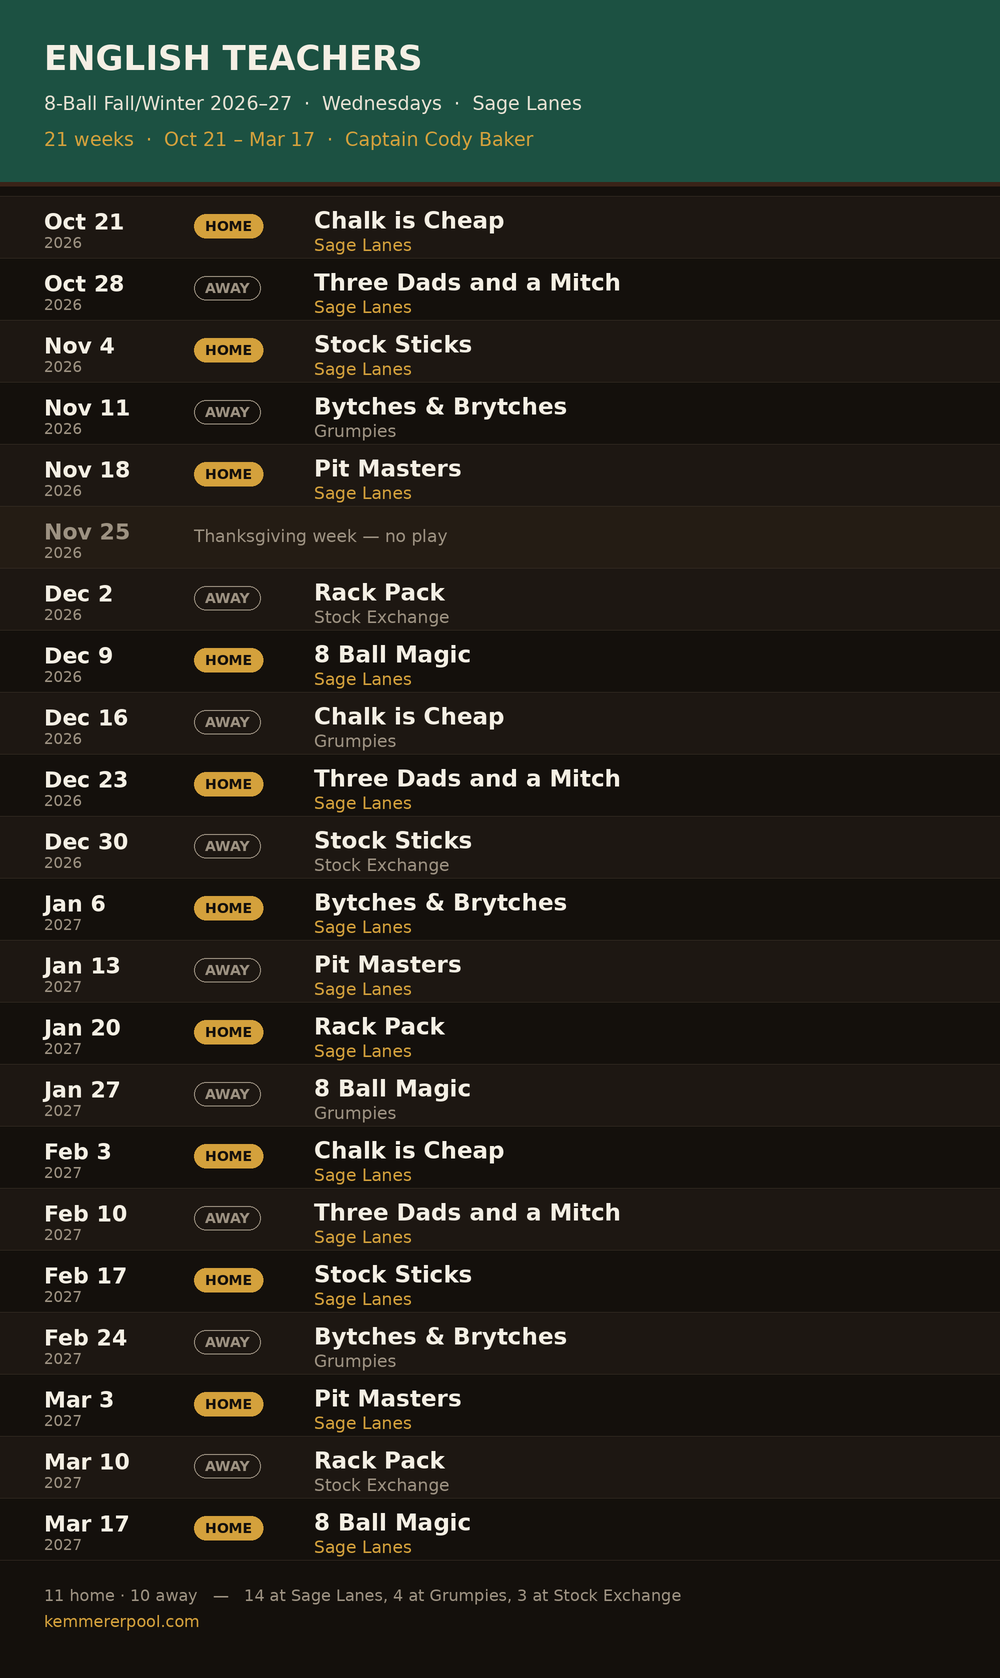
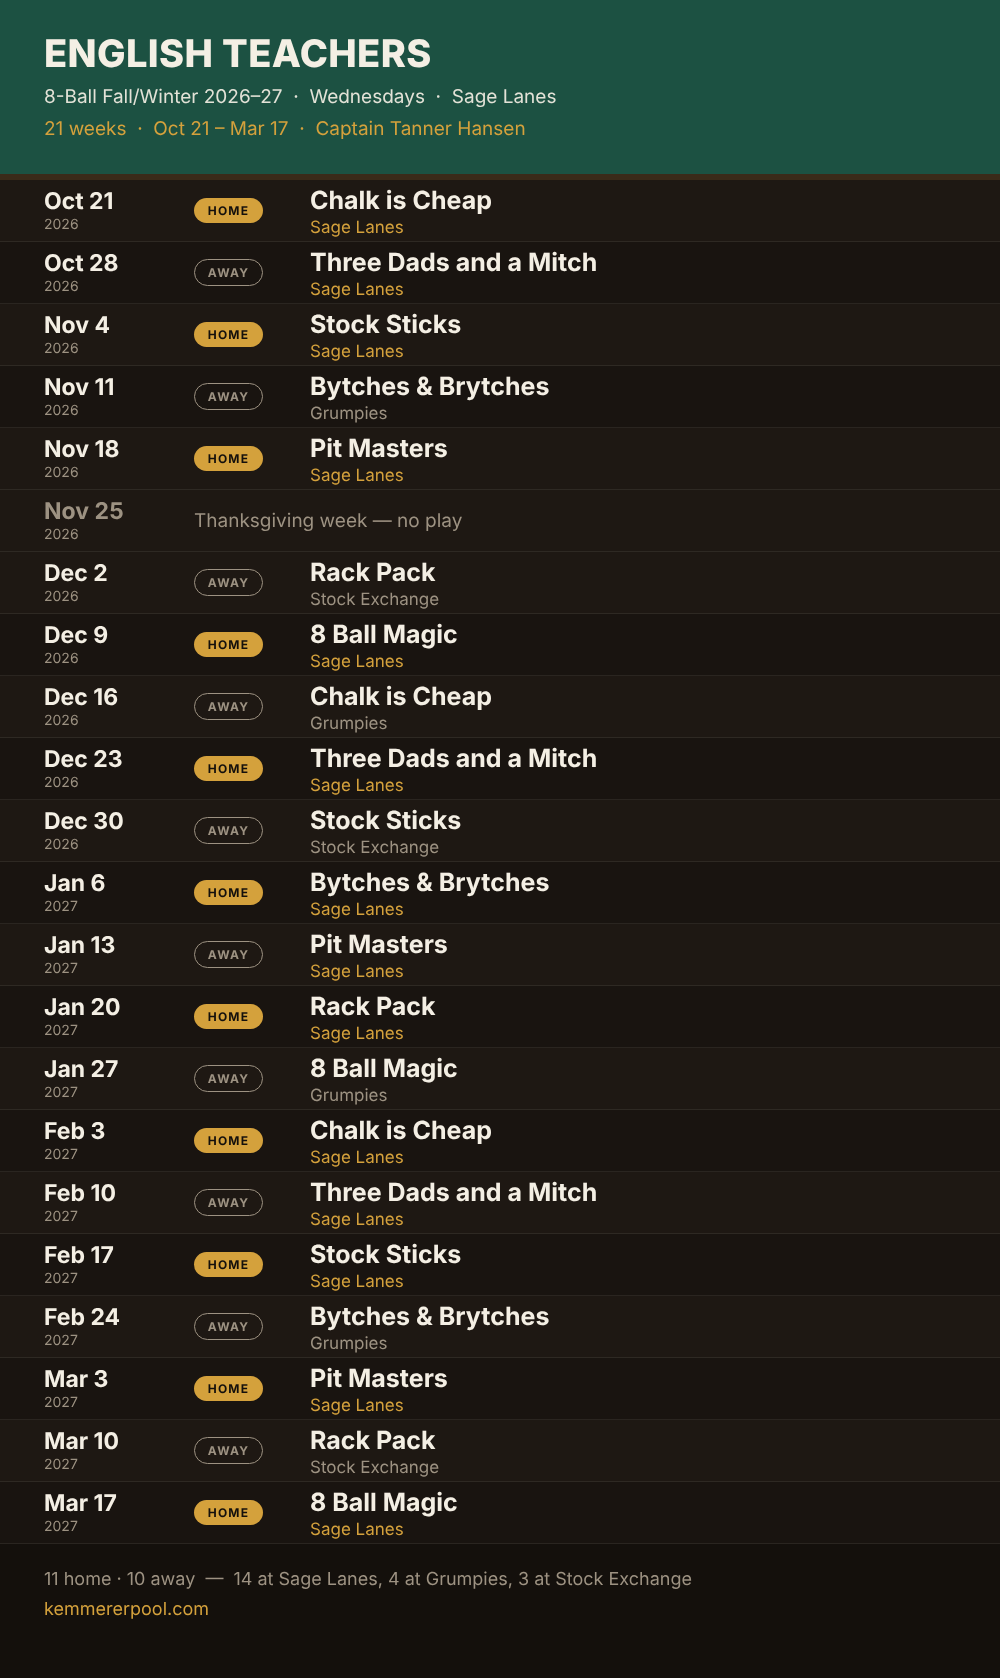
English Teachers: Tanner Hansen is captain, with new number and rebuilt schedule card (index v1.63)

Changed region(s): [[0.0, 0.0, 1.0, 0.9917]]

diff --git a/index.html b/index.html
@@ -869,8 +869,8 @@ a:focus-visible, button:focus-visible {
                   </tr>
                   <tr>
                     <td class="tm">English Teachers</td>
-                    <td class="cp">Cody B.</td>
-                    <td class="ph"><a href="tel:3077233837">(307) 723-3837</a></td>
+                    <td class="cp">Tanner H.</td>
+                    <td class="ph"><a href="tel:3077277955">(307) 727-7955</a></td>
                     <td class="br">Sage Lanes</td>
                     <td class="sc"><a href="team-schedule.html?t=english-teachers">Schedule &rarr;</a></td>
                   </tr>
@@ -1206,7 +1206,7 @@ a:focus-visible, button:focus-visible {
       </div>
       <div class="colophon">
         <span>Kemmerer Pool League &middot; Jenkins Music &amp; Vending</span>
-        <span>v1.62</span>
+        <span>v1.63</span>
       </div>
 
     </div>

diff --git a/season-8ball.js b/season-8ball.js
@@ -20,7 +20,7 @@ window.SEASON_8BALL = {
   teams: {
     1: { name: 'Stock Sticks',         bar: 'Stock Exchange', captain: 'Bill Abriani',    slug: 'stock-sticks' },
     2: { name: 'Bytches & Brytches',   bar: 'Grumpies',       captain: 'Kylee Smith',     slug: 'bytches-brytches' },
-    3: { name: 'English Teachers',     bar: 'Sage Lanes',     captain: 'Cody Baker',      slug: 'english-teachers' },
+    3: { name: 'English Teachers',     bar: 'Sage Lanes',     captain: 'Tanner Hansen',   slug: 'english-teachers' },
     4: { name: '8 Ball Magic',         bar: 'Grumpies',       captain: 'Rylee Roberts',   slug: '8-ball-magic' },
     5: { name: 'Rack Pack',            bar: 'Stock Exchange', captain: 'Andy Cass',       slug: 'rack-pack' },
     6: { name: 'Chalk is Cheap',       bar: 'Grumpies',       captain: 'Sable Abeyta',    slug: 'chalk-is-cheap' },
